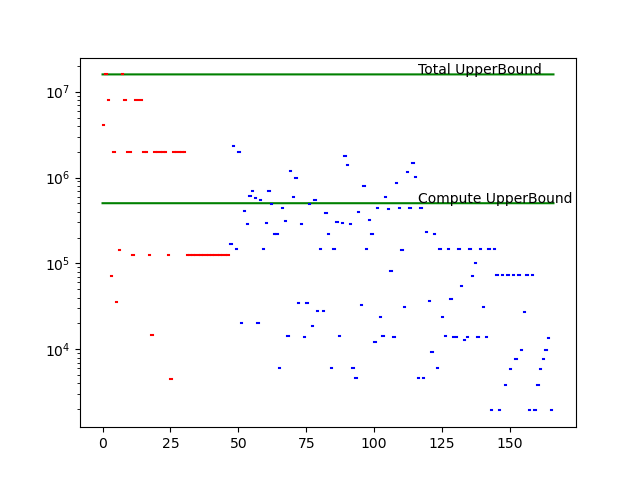
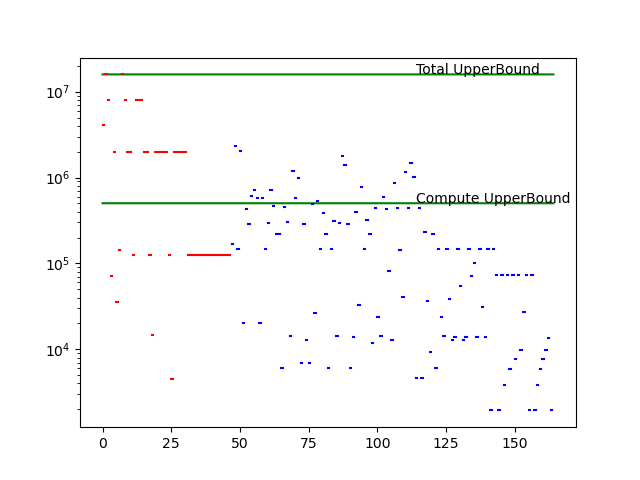
fix the problems on comment

diff --git a/mnsim_noc/Array/time_slice_array.py b/mnsim_noc/Array/time_slice_array.py
@@ -54,7 +54,7 @@ class TimeSliceArray(BaseArray):
         self.total_data_size = 0
         self.input_cache_size = input_cache_size
         self.output_cache_size = output_cache_size
-        self.packet_delay = round(float(packet_size) * 8 / self.bandwidth / self.time_slice)
+        self.packet_delay = math.ceil(float(packet_size) * 8 / self.bandwidth / self.time_slice)
 
     def task_assignment(self):
         # save the data length from previous layer
@@ -95,10 +95,10 @@ class TimeSliceArray(BaseArray):
                                                 default_inbuf_size=self.tcg_mapping.max_inbuf_size,
                                                 default_outbuf_size=self.tcg_mapping.max_outbuf_size
                                                 )
-                cfg['computing_time'] = round(temp_tile_latency.tile_latency/self.time_slice)
+                cfg['computing_time'] = math.ceil(temp_tile_latency.tile_latency/self.time_slice)
                 cfg['length'] = int(layer_dict['Outputchannel']) * int(
                     layer_dict['outputbit']) / self.bandwidth / self.time_slice
-                cfg['data_size'] = round(int(layer_dict['Outputchannel']) * int(layer_dict['outputbit'])/cfg['tile_num'])
+                cfg['data_size'] = math.ceil(int(layer_dict['Outputchannel']) * int(layer_dict['outputbit'])/cfg['tile_num'])
                 input_tmp = cfg['height_core']*cfg['width_input']
             elif layer_dict['type'] == 'pooling':
                 cfg['type'] = 'pooling'
@@ -115,10 +115,10 @@ class TimeSliceArray(BaseArray):
                                                         default_inbuf_size = self.tcg_mapping.max_inbuf_size,
                                                         default_outbuf_size = self.tcg_mapping.max_outbuf_size,
                                                         default_inchannel = int(layer_dict['Inputchannel']), default_size = (int(layer_dict['Kernelsize'])**2))
-                cfg['computing_time'] = round(temp_pooling_latency.pooling_latency/self.time_slice)
+                cfg['computing_time'] = math.ceil(temp_pooling_latency.pooling_latency/self.time_slice)
                 cfg['length'] = int(layer_dict['Outputchannel']) * int(
                     layer_dict['outputbit']) / self.bandwidth / self.time_slice
-                cfg['data_size'] = round(int(layer_dict['Outputchannel']) * int(layer_dict['outputbit'])/cfg['tile_num'])
+                cfg['data_size'] = math.ceil(int(layer_dict['Outputchannel']) * int(layer_dict['outputbit'])/cfg['tile_num'])
                 input_tmp = cfg['height_filter']*cfg['width_input']
             elif layer_dict['type'] == 'fc':
                 cfg['type'] = 'fc'
@@ -134,20 +134,20 @@ class TimeSliceArray(BaseArray):
                                 default_inbuf_size=self.tcg_mapping.max_inbuf_size,
                                 default_outbuf_size=self.tcg_mapping.max_outbuf_size
                                 )
-                cfg['computing_time'] = round(temp_tile_latency.tile_latency/self.time_slice)
+                cfg['computing_time'] = math.ceil(temp_tile_latency.tile_latency/self.time_slice)
                 cfg['length'] = int(layer_dict['outputbit']) / self.bandwidth / self.time_slice
-                cfg['data_size'] = round(int(layer_dict['outputbit'])/cfg['tile_num'])
+                cfg['data_size'] = math.ceil(int(layer_dict['outputbit'])/cfg['tile_num'])
                 input_tmp = cfg['height_input']
             else:
                 self.logger.warning('Unsupported layer type, layer_id:' + str(layer_id))
-            cfg['input_cache'] = round(int(self.input_cache_size) * 1024 * 8 / self.bandwidth / self.time_slice)
-            cfg['output_cache'] = round(int(self.output_cache_size) * 1024 * 8 / self.bandwidth / self.time_slice)
+            cfg['input_cache'] = math.ceil(int(self.input_cache_size) * 1024 * 8 / self.bandwidth / self.time_slice)
+            cfg['output_cache'] = math.ceil(int(self.output_cache_size) * 1024 * 8 / self.bandwidth / self.time_slice)
             # ensure the output cache of the last layer
             if layer_id == self.tcg_mapping.layer_num-1:
                 cfg['output_cache'] = float('inf')
             if layer_id > 0:
                 last_layer_dict = self.tcg_mapping.net[layer_id-1][0][0]
-                cfg['input_size'] = round(int(last_layer_dict['Outputchannel']) * int(
+                cfg['input_size'] = math.ceil(int(last_layer_dict['Outputchannel']) * int(
                     last_layer_dict['outputbit']))
                 # TODO: consider the fc input_length
             else:
@@ -186,7 +186,7 @@ class TimeSliceArray(BaseArray):
                         else:
                             cfg['end_tiles'] = ["{}_{}".format(int(cfg['aggregate_arg'][0]), int(cfg['aggregate_arg'][1]))]
                         cfg['num_out'] = 1
-                        cfg['length'] = round(cfg['length'] / cfg['tile_num'])
+                        cfg['length'] = math.ceil(cfg['length'] / cfg['tile_num'])
                     # different tile types
                     if cfg['type'] == 'conv':
                         tile = CONVTimeSliceTile((i, j), cfg, self.time_slice)
@@ -233,7 +233,7 @@ class TimeSliceArray(BaseArray):
             if tile.input_list or (tile.output_list and tile.end_tiles):
                 return False
         for wire_id, wire in self.wire_dict.items():
-            if wire.state or wire.wait_time:
+            if wire.state > 0 or wire.wait_time > 0:
                 return False
         return True
 
@@ -308,9 +308,9 @@ class TimeSliceArray(BaseArray):
         Y=np.linspace(self.roofline,self.roofline,20*L)
         plt.plot(X,Y,color='g')
         plt.text(L-50,self.roofline,'Total UpperBound')
-        Y=np.linspace(round(self.total_data_size/self.total_computing_power),round(self.total_data_size/self.total_computing_power),20*L)
+        Y=np.linspace(self.total_data_size/self.total_computing_power,self.total_data_size/self.total_computing_power,20*L)
         plt.plot(X,Y,color='g')
-        plt.text(L-50,round(self.total_data_size/self.total_computing_power),'Compute UpperBound')
+        plt.text(L-50,self.total_data_size/self.total_computing_power,'Compute UpperBound')
         for i, item in enumerate(self.roofline_record):
             tmp_X = np.linspace(i,i+0.5,10)
             tmp_Y = np.linspace(item[0],item[0],10)

diff --git a/mnsim_noc/Tile/time_slice_tile.py b/mnsim_noc/Tile/time_slice_tile.py
@@ -109,7 +109,7 @@ class TimeSliceTile(BaseTile):
     def get_roofline(self):
         # return the actual time needed for the computation
         if self.computed_data > 0:
-            return [round(self.computed_data * self.computing_time / self.data_length), self.computed_data, self.data_length, self.computing_time]
+            return [int(self.computed_data * self.computing_time / self.data_length), self.computed_data, self.data_length, self.computing_time]
         else: 
             return []
 

diff --git a/mnsim_noc/Router/time_slice_router.py b/mnsim_noc/Router/time_slice_router.py
@@ -53,7 +53,7 @@ class TimeSliceRouter(BaseRouter):
             end_tile_position = list(map(int, re.findall(r"\d+", tile_data[2])))
             step_x = end_tile_position[0]-start_tile_position[0]
             step_y = end_tile_position[1]-start_tile_position[1]
-            length = round(tile_data[3])
+            length = int(tile_data[3])
             data = tile_data[0:3]+(length,tile_data[4])
             # North:0; West:1; South:2; East:3;
             direction_x = 2 if step_x > 0 else 0

diff --git a/mnsim_noc/Tile/pooling_time_slice_tile.py b/mnsim_noc/Tile/pooling_time_slice_tile.py
@@ -91,9 +91,9 @@ class PoolingTimeSliceTile(TimeSliceTile):
         # compute in the time slice
         if self.state > 0:
             self.state -= n
-        if self.state < 0:
-            self.logger.warn('tile state < 0')
-            exit()
+        # if self.state < 0:
+        #     self.logger.warn('tile state < 0')
+        #     exit()
         # if the tile just finished the computation
         if self.state == 0:
             if self.computing_output:

diff --git a/mnsim_noc/Tile/conv_time_slice_tile.py b/mnsim_noc/Tile/conv_time_slice_tile.py
@@ -91,9 +91,9 @@ class CONVTimeSliceTile(TimeSliceTile):
         # compute in the time slice
         if self.state > 0:
             self.state -= n
-        if self.state < 0:
-            self.logger.warn('tile state < 0')
-            exit()
+        # if self.state < 0:
+        #     self.logger.warn('tile state < 0')
+        #     exit()
         # if the tile just finished the computation
         if self.state == 0:
             if self.computing_output:

diff --git a/mnsim_noc/Wire/time_slice_wire.py b/mnsim_noc/Wire/time_slice_wire.py
@@ -63,7 +63,7 @@ class TimeSliceWire(BaseWire):
         return tmp_data
 
     def get_roofline(self):
-        return round(self.transferred_data)
+        return int(self.transferred_data)
 
     def get_wait_time(self):
         # get the end time of occupation
